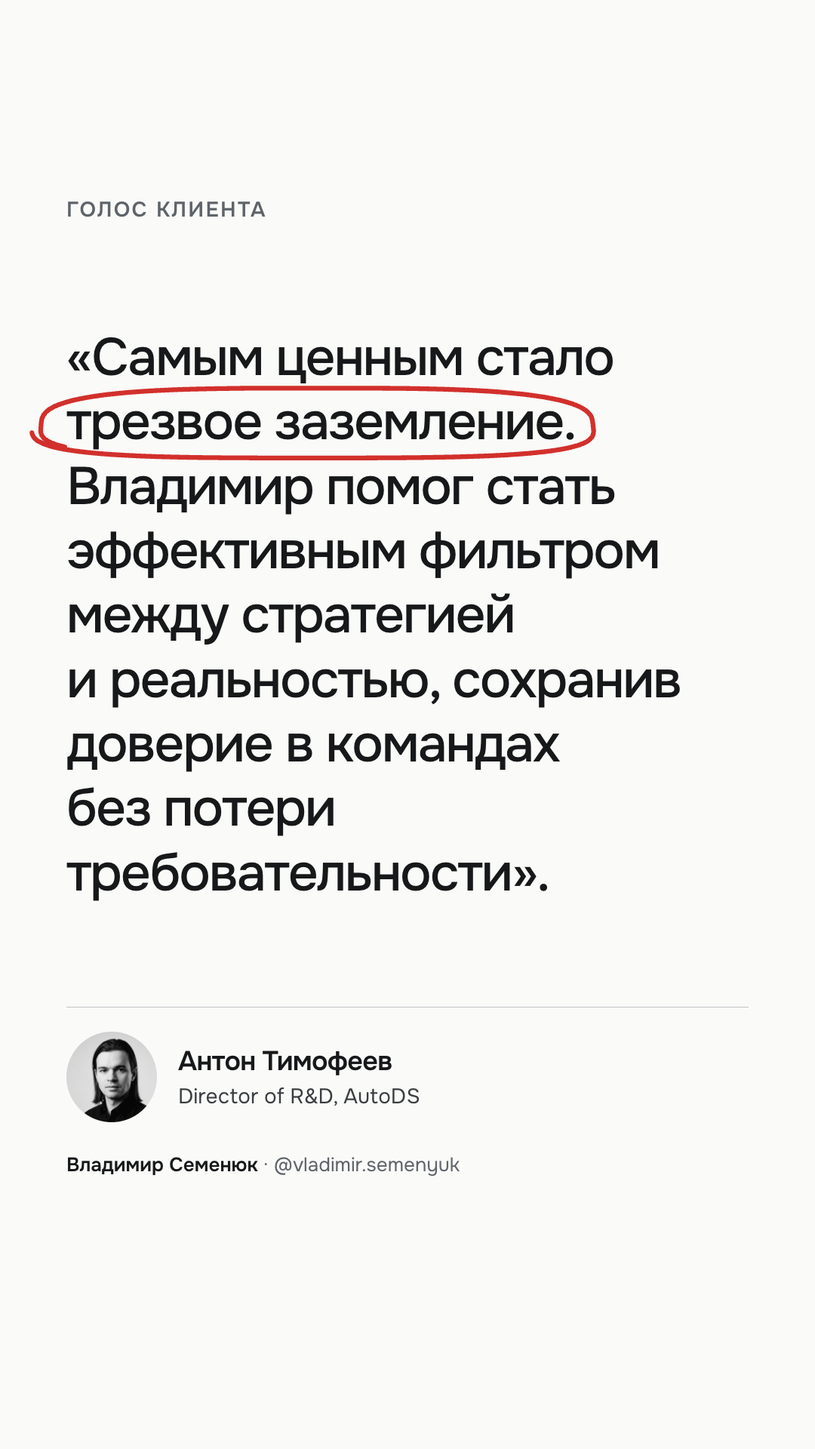
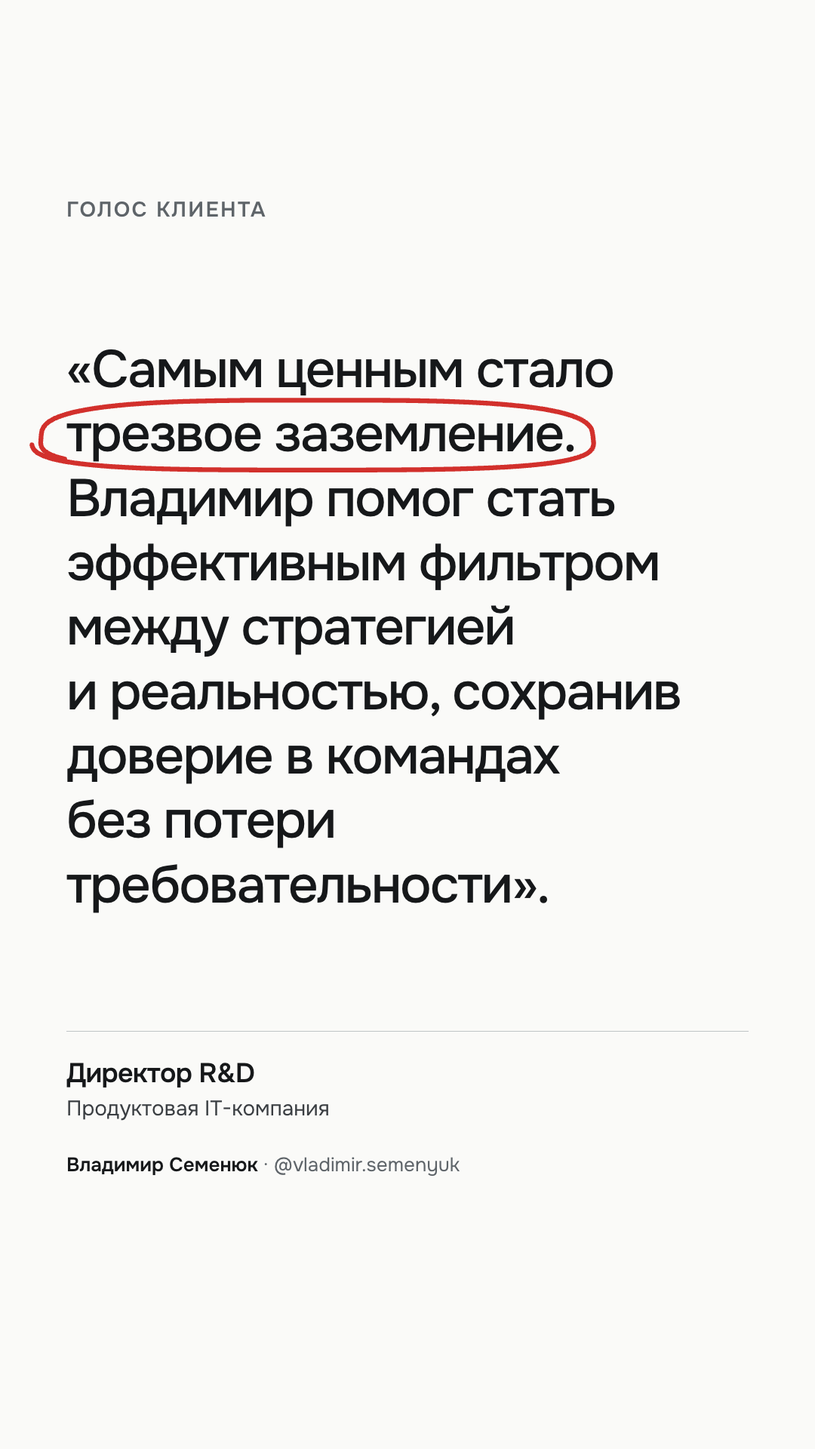
Instagram: портрет вместо тезиса, клиенты обезличены, Актуальное на понедельник
- Пост 4 — чёрно-белый портрет под «Кто я»; тезис «Право управлять не выдают» перенесён на неделю 1
- Отзывы в Instagram без имён и фото: должность и тип компании; фото в шаблоне отзыва необязательно
- p2-07 и Reels 2: «Что общего» вместо «Под всеми пятью одно»
- Профиль и посты опубликованы досрочно 15 ноября, Актуальное перенесено на понедельник

Changed region(s): [[0.0306, 0.2188, 0.8556, 0.625], [0.0611, 0.6875, 0.5194, 0.7812]]

diff --git a/Posts/instagram/2026-11-16-launch/slides.py b/Posts/instagram/2026-11-16-launch/slides.py
@@ -25,14 +25,16 @@ POSITIONS = [
          step="[[b:Возьмите один риск, который видите, и примите по нему [[o:решение]] до пятницы.]]"),
 ]
 
+# В Instagram клиенты обезличены: роль и тип компании, без имени и фото (решение 2026-11-15).
+# На сайте отзывы остаются с именами.
 REVIEWS = [
-    dict(who="Ольга Лончакова", role="Исполнительный директор, Sber", photo="olga.jpg", size=60,
+    dict(who="Исполнительный директор", role="Крупный банк", size=60,
          quote="«Полгода сомнений и внутренних разговоров были чётко структурированы и [[o:разложены по полочкам]]. После сессии у меня появился план горизонтом в год с конкретными шагами»."),
-    dict(who="Антон Тимофеев", role="Director of R&D, AutoDS", photo="anton.jpg",
+    dict(who="Директор R&D", role="Продуктовая IT-компания",
          quote="«Самым ценным стало [[o:трезвое заземление]]. Владимир помог стать эффективным фильтром между стратегией и реальностью, сохранив доверие в командах без потери требовательности»."),
-    dict(who="Виталий Иванов", role="CIO, UKids Academy", photo="vitaly.jpg",
+    dict(who="CIO", role="Образовательная компания",
          quote="«Владимир идёт в глубину и разбирает детали, не останавливаясь на общих вопросах. Консультация дала [[o:трезвую обратную связь]] по моим концепциям»."),
-    dict(who="Николай Смирницкий", role="Founder & CEO, MPFact.ru", photo="nikolay.jpg",
+    dict(who="Основатель и CEO", role="Технологический стартап",
          quote="«Владимир кратко и понятно объяснил, как работать с программистами. После этого изменился наш CTO: он стал [[o:думать как предприниматель]]»."),
 ]
 
@@ -87,7 +89,7 @@ for i, p in enumerate(POSITIONS):
     add(dict(name=f"p2-0{i + 2}", kind="position", label=f"Позиция 0{i + 1}", counter=f"{i + 2} / 7",
              foot=f"Дальше — {nxt[i]}" if nxt[i] else "Дальше — главное", **p))
 add(dict(name="p2-07", handle=True, kind="text", label="Право управлять", counter="7 / 7", size=110,
-         title="Под всеми пятью — одно",
+         title="Что общего",
          body=["Нет ощущения [[u:права управлять]] результатом, за который отвечаете.",
                "Должность даёт ответственность. Право управлять руководитель берёт сам."],
          pill="Узнали себя? «Разбор» в директ"))

diff --git a/Posts/instagram/render/render.py b/Posts/instagram/render/render.py
@@ -179,7 +179,7 @@ def t_review(s, story=False):
     return (f'<div class="{cls}" style="width:{w}px;height:{h}px">{head}'
             f'<blockquote style="margin:0;font-size:{s.get("size", 64)}px;font-weight:500;line-height:1.22;letter-spacing:-.03em">{md(s["quote"], 7)}</blockquote>'
             f'<div style="display:flex;flex-direction:column;gap:40px"><div style="display:flex;align-items:center;gap:28px;border-top:1px solid #BFC4C6;padding-top:32px">'
-            f'<img class="ava" src="{img("reviews/" + s["photo"])}" style="width:120px;height:120px">'
+            + (f'<img class="ava" src="{img("reviews/" + s["photo"])}" style="width:120px;height:120px">' if s.get("photo") else '') +
             f'<div style="display:flex;flex-direction:column;gap:6px"><span style="font-size:36px;font-weight:600;letter-spacing:-.02em">{md(s["who"])}</span>'
             f'<span style="font-size:28px;color:#3A3E42">{md(s["role"])}</span></div></div>{foot}</div></div>')
 

diff --git a/Posts/instagram/2026-11-16-launch/posts.md b/Posts/instagram/2026-11-16-launch/posts.md
@@ -11,7 +11,7 @@ language: ru
 - [[Posts/instagram/2026-11-16-launch/_index|Неделя запуска — порядок публикации]]
 - [[Personal/marketing/instagram-plan|План Instagram на 90 дней]]
 
-Шесть постов сетки. Картинки — в `img/`, формат 4:5. Подписи готовы к вставке, хэштегов нет.
+Шесть постов сетки. Картинки — в `img/`, формат 4:5. Тезис «Право управлять не выдают» перенесён на неделю 1 — в конце файла. Подписи готовы к вставке, хэштегов нет.
 
 ---
 
@@ -26,17 +26,17 @@ language: ru
 ```
 В 2017 году меня разнесли на собеседовании на CTO в биг-техе.
 
-Тот разговор заставил пересобрать роль. Я строил свою незаменимость. А нужно было строить систему, которая работает без меня.
+Тот разговор заставил меня пересмотроть свою роль, как руководителя. Раньше я строил свою незаменимость. А нужно было строить систему, которая работает без меня.
 
-Дальше были IPONWEB, mos.ru — пришёл руководителем разработки, вырос до CIO, организация выросла с 80 до 500 человек — и CTO Нетологии.
+Дальше были IPONWEB, mos.ru: пришёл руководителем разработки, вырос до CIO, организация выросла с 80 до 500 человек, и после был CTO Нетологии.
 
 Потом я ушёл в свои бизнесы: AI-стартап и теннисный клуб в Белграде. Закрыл оба. В новой отрасли и новой стране прежний способ управлять перестаёт работать быстрее всего.
 
-Из всего этого я вынес одно. Руководитель застревает не из-за нехватки знаний. Он управляет из позиции прошлого уровня, а ситуация уже другая.
+Из всего этого я вынес одно. Руководитель застревает не из-за нехватки знаний. Дело в том, что он управляет из позиции прошлого уровня, а ситуация уже другая.
 
-Теперь я работаю с руководителями, которые застряли так же. Метод называется «Право управлять». Берём задачу этой недели, я даю под неё инструмент и рассказываю, что сработало у меня. Потом называю то, что держит, и мы находим один неудобный шаг.
+Теперь я работаю с руководителями, которые застряли так же. Метод называется «Право управлять». Берём задачу этой недели, я даю под неё инструмент и рассказываю, что сработало у меня. Потом называю то, что удерживает, и мы находим один неудобный, но необходимый шаг.
 
-Если узнали себя — напишите «разбор» в директ.
+Если узнали себя, напишите «разбор» в директ.
 ```
 
 **Сильнее с одной деталью.** Одна фраза о том, что именно произошло на собеседовании 2017 года, сделает историю живой. Без неё текст честный, но общий. Вписать после первого абзаца.
@@ -52,9 +52,9 @@ language: ru
 **Подпись:**
 
 ```
-Отвечаете за результат, но не чувствуете права им управлять?
+Отвечаете за результат, но не чувствуете, что управляете им?
 
-Почти все руководители, с которыми я работаю, застревают в одной из пяти позиций. Это не характер и не типаж. Это способ управлять, который работал на прошлом уровне и перестал работать на этом.
+Почти все руководители, с которыми я работаю, застревают в одной из пяти позиций. Это не характер и не типаж. Это способ управлять, который работал на прошлом уровне, но перестал работать на этом.
 
 Герой — решает сам, потому что так быстрее.
 Проситель — просит там, где нужно задать рамку.
@@ -62,9 +62,9 @@ language: ru
 Хороший парень — сглаживает, пока команда садится на шею.
 Наблюдатель — видит риски точнее всех и ничего с ними не делает.
 
-В карусели — как проявляется каждая позиция, во что она обходится и один шаг на эту неделю.
+Читайте в карусели как проявляется каждая позиция, во что она обходится и что можно сделать в ближайшую неделю, чтобы выйти из неё.
 
-Под всеми пятью одно: нет ощущения права управлять результатом, за который отвечаете. Должность даёт ответственность. Право управлять руководитель берёт сам.
+Все пять позиций объединяет одно: отсутствие ощущения права управлять результатом, за который отвечаете. Должность даёт ответственность. Но право управлять руководитель берёт сам.
 
 Сохраните и вернитесь в пятницу: проверьте, сделали ли шаг.
 Хотите разобрать свою ситуацию — напишите «разбор» в директ.
@@ -85,46 +85,47 @@ language: ru
 
 «Трезвый взгляд» — разбор вашей управленческой ситуации за одну встречу. Не учебный кейс, а то, что происходит у вас на этой неделе.
 
-До встречи — три вопроса письменно: чем руководите, что перестало работать и сколько это длится.
-Встреча — 90 минут онлайн.
-После — одна страница: из какой позиции вы управляете, три точки роста и одно решение на эту неделю.
+До встречи ответьте на три вопроса письменно: чем руководите, что перестало работать и сколько это длится.
+Встреча длится 90 минут онлайн.
+В рещультате вы получите ответы на вопросы: из какой позиции вы управляете, три точки роста и одно решение на эту неделю.
 
-Стоимость — $250.
+Стоимость: $250.
 
-Перед разбором — 15 минут знакомства. Проверяем, подходит ли задача. Это не консультация: если я не смогу помочь, так и скажу.
+Разбор предворяют 15 минут знакомства. Проверяем, подходит ли задача. Это не консультация: если я не смогу помочь, так и скажу.
 
-Не подойдёт, если нужна поддержка без разбора решений, психотерапия или курс с сертификатом.
+Кому не подойдёт: если нужна поддержка без разбора решений, психотерапия или курс с сертификатом.
 
-Если после разбора захотите работать дальше — есть программа «Право управлять», от трёх месяцев. Если нет — у вас останется страница с решением.
+Если после разбора захотите работать дальше, есть программа «Право управлять» (от трёх месяцев работы). Если нет — у вас останется страница с решением.
 
 Напишите «разбор» в директ.
 ```
 
 ---
 
-## Пост 4. Тезис: право управлять не выдают
+## Пост 4. Портрет
 
-Одна картинка: `p4`.
+Одна картинка: `portrait.jpg` — чёрно-белый студийный портрет с сайта, 4:5, без текста. Единственная фотография в сетке: встаёт под «Кто я».
 
-![[img/p4.png|300]]
+![[img/portrait.jpg|300]]
 
 **Подпись:**
 
 ```
-Право управлять не выдают вместе с должностью.
+Владимир Семенюк. Работаю с руководителями, которые отвечают за результат, но не чувствуют права им управлять.
 
-Вас назначили. Дали команду, бюджет, цели. А дальше выясняется, что смежники всё равно не слушают, решения всё равно идут через вас, а руководство всё равно решает за вас.
+Был CTO Нетологии и CIO mos.ru. Управлял командами более 500 человек. Знаю эту ситуацию изнутри.
 
-Должность даёт ответственность. Право управлять руководитель берёт сам: задаёт рамку, отдаёт решения, называет последствия. Пока он этого не делает, остаётся три варианта — просить, тянуть на себе или подстраиваться.
-
-Шаг на эту неделю: найдите одно решение в своей зоне, которое вы ждёте, чтобы кто-то одобрил. Примите его сами и сообщите о нём. Не спрашивайте разрешения.
+Как я работаю и почему — в закреплённом посте «Кто я».
+Чтобы разобрать ваши ситуацию напишите «разбор» в директ.
 ```
+
+Решение 2026-11-15: портрет заменил тезис «Право управлять не выдают» — в сетке до анонса нужно лицо. Тезис перенесён на неделю 1, текст — в конце файла.
 
 ---
 
-## Пост 5. Голос клиента: Ольга
+## Пост 5. Голос клиента: исполнительный директор банка
 
-Одна картинка: `p5`. Отзыв, имя, должность и фото — с согласия автора, как на сайте.
+Одна картинка: `p5`. Отзыв — с согласия автора, текст как на сайте. В Instagram без имени и фото: должность и тип компании (решение 2026-11-15).
 
 ![[img/p5.png|300]]
 
@@ -133,13 +134,11 @@ language: ru
 ```
 «Полгода сомнений и внутренних разговоров были чётко структурированы и разложены по полочкам».
 
-Полгода сомнений — частая точка, с которой приходят ко мне. Внутренний разговор идёт по кругу: остаться или идти дальше, чего не хватает, у кого спросить. Сам по себе он не заканчивается.
+Это частая точка, с которой приходят ко мне. Внутренний разговор идёт по кругу: остаться или идти дальше, чего не хватает, у кого спросить. Сам по себе он не заканчивается.
 
-Его нужно перевести в факты: что у вас уже есть, чего не хватает для следующей роли и какое решение вы откладываете. Тогда вместо разговора по кругу появляется план.
+Первое что делаем — переводим домыслы в факты: что у вас уже есть, чего не хватает для следующей роли и какое решение вы откладываете. Тогда вместо разговора по кругу появляется план.
 
-Ольга Лончакова — исполнительный директор в Сбере. Отзыв опубликован с её согласия.
-
-Если вы полгода думаете о следующем шаге и он не становится яснее — напишите «разбор» в директ.
+Если вы полгода думаете о следующем шаге и он не становится яснее, напишите «разбор» в директ.
 ```
 
 ---
@@ -165,3 +164,25 @@ language: ru
 
 Если у вас всё идёт через вас — напишите «разбор» в директ.
 ```
+
+---
+
+## Перенесено на неделю 1: тезис «Право управлять не выдают»
+
+Одна картинка: `p4`.
+
+![[img/p4.png|300]]
+
+**Подпись:**
+
+```
+Право управлять не выдают вместе с должностью.
+
+Вас назначили. Дали команду, бюджет, цели. А дальше выясняется, что смежники всё равно не слушают, решения всё равно идут через вас, а руководство всё равно решает за вас.
+
+Должность даёт ответственность. Право управлять руководитель берёт сам: задаёт рамку, отдаёт решения, называет последствия. Пока он этого не делает, остаётся три варианта — просить, тянуть на себе или подстраиваться.
+
+Шаг на эту неделю: найдите одно решение в своей зоне, которое вы ждёте, чтобы кто-то одобрил. Примите его сами и сообщите о нём. Не спрашивайте разрешения.
+```
+
+Картинка готова — `p4.png`. Дата публикации — в [[Personal/marketing/instagram-plan|плане]], неделя 1.

diff --git a/Posts/instagram/2026-11-16-launch/_index.md b/Posts/instagram/2026-11-16-launch/_index.md
@@ -28,7 +28,7 @@ language: ru
 | `posts.md` | Подписи шести постов сетки |
 | `reels.md` | Сценарии трёх Reels, правила съёмки и монтажа |
 | `highlights.md` | Пять кружков Актуального: что в каком порядке |
-| `img/` | 50 картинок: 21 слайд постов, 3 обложки Reels, 5 обложек и 21 сторис Актуального. `_contact.png` — сводный лист |
+| `img/` | 51 картинка: 20 слайдов постов и `portrait.jpg`, 3 обложки Reels, 5 обложек и 21 сторис Актуального. `p4.png` — тезис, перенесён на неделю 1. `_contact.png` — сводный лист |
 | `slides.py` | Тексты всех картинок. Правка текста → перерисовка одной командой |
 
 Перерисовать картинки из корня KnowledgeOS:
@@ -43,10 +43,12 @@ python3 Posts/instagram/render/render.py Posts/instagram/2026-11-16-launch/slide
 
 ### Перед началом
 
-- [ ] Перекинуть папку `img/` на телефон через AirDrop: сторис и Актуальное делаются только с телефона.
-- [ ] Открыть на телефоне `posts.md` и `reels.md` — в Obsidian или скопировать в заметки.
+- [x] Перекинуть папку `img/` на телефон через AirDrop: сторис и Актуальное делаются только с телефона.
+- [x] Открыть на телефоне `posts.md` и `reels.md` — в Obsidian или скопировать в заметки.
 
-### Понедельник, 16 ноября — профиль и посты
+### Воскресенье, 15 ноября — профиль и посты
+
+Сделано досрочно: по плану было на понедельник.
 
 **Профиль.** Instagram → профиль → «Редактировать профиль».
 - [x] Фото: `Personal/marketing/website/site/assets/img/vladimir-semenyuk.jpg`.
@@ -68,18 +70,18 @@ python3 Posts/instagram/render/render.py Posts/instagram/2026-11-16-launch/slide
 - [x] Ярлык: `разбор`. Текст — из раздела «Директ» в [[Personal/marketing/instagram-profile|профиле]].
 
 **Посты.** «+» → «Публикация». Для карусели — «Выбрать несколько» и отмечать файлы по номерам. Формат — 4:5. Подпись — из `posts.md`. Публиковать строго в этом порядке:
-- [ ] 1-й: `p6.png` → подпись «Пост 6. Кейс».
-- [ ] 2-й: `p5.png` → подпись «Пост 5. Голос клиента».
-- [ ] 3-й: `p4.png` → подпись «Пост 4. Тезис».
-- [ ] 4-й: `p3-01` … `p3-05` → подпись «Пост 3. Разбор».
-- [ ] 5-й: `p2-01` … `p2-07` → подпись «Пост 2. Позиции».
-- [ ] 6-й: `p1-01` … `p1-06` → подпись «Пост 1. Кто я».
+- [x] 1-й: `p6.png` → подпись «Пост 6. Кейс».
+- [x] 2-й: `p5.png` → подпись «Пост 5. Голос клиента».
+- [x] 3-й: `portrait.jpg` → подпись «Пост 4. Портрет».
+- [x] 4-й: `p3-01` … `p3-05` → подпись «Пост 3. Разбор».
+- [x] 5-й: `p2-01` … `p2-07` → подпись «Пост 2. Позиции».
+- [x] 6-й: `p1-01` … `p1-06` → подпись «Пост 1. Кто я».
 
 **Закрепить.** На посте «⋯» → «Закрепить в профиле».
-- [ ] Закрепить по очереди: пост «Разбор», затем «Позиции», затем «Кто я».
-- [ ] Проверить: в профиле первыми слева направо стоят «Кто я», «Позиции», «Разбор».
+- [x] Закрепить по очереди: пост «Разбор», затем «Позиции», затем «Кто я».
+- [x] Проверить: в профиле первыми слева направо стоят «Кто я», «Позиции», «Разбор».
 
-### Вторник, 17 ноября — Актуальное и первая съёмка
+### Понедельник, 16 ноября — Актуальное
 
 **Актуальное.** Для каждого кружка: выложить его сторис по порядку, затем в профиле «+ Новое» под шапкой → отметить эти сторис → название → «Изменить обложку» → картинка `-0` из галереи.
 - [ ] «Кто я»: сторис `h-kto-ya-1` … `4`, обложка `h-kto-ya-0`.
@@ -87,6 +89,8 @@ python3 Posts/instagram/render/render.py Posts/instagram/2026-11-16-launch/slide
 - [ ] «Разбор»: сторис `h-razbor-1` … `4`, обложка `h-razbor-0`.
 - [ ] «Отзывы»: сторис `h-otzyvy-1` … `4`, обложка `h-otzyvy-0`.
 - [ ] «Кейсы»: сторис `h-keysy-1` … `3`, обложка `h-keysy-0`.
+
+### Вторник, 17 ноября — первая съёмка
 
 **Учёба, 45 минут: место и техника.** Правила — в `reels.md`, раздел «Как снимать».
 - [ ] Выбрать одно место для всех будущих съёмок: стена или доска, свет из окна сбоку-спереди.
@@ -131,7 +135,7 @@ python3 Posts/instagram/render/render.py Posts/instagram/2026-11-16-launch/slide
 ## Проверка перед анонсом
 
 - [ ] Посетитель за 10 секунд видит: про чью ситуацию, кто автор, что сделать.
-- [ ] Три закреплённых поста стоят в правильном порядке.
+- [ ] Три закреплённых поста стоят в правильном порядке, портрет — первым во втором ряду, под «Кто я».
 - [ ] Пять кружков Актуального с обложками.
 - [ ] Быстрый ответ на «разбор» срабатывает — проверить с другого аккаунта.
 - [ ] В посте 1 дописана одна деталь о собеседовании 2017 года — по желанию.
@@ -139,6 +143,7 @@ python3 Posts/instagram/render/render.py Posts/instagram/2026-11-16-launch/slide
 ## Что осталось на неделю 1
 
 - Публикация первых пяти Reels: три готовых ролика этой недели и два новых про героя.
+- Пост-тезис «Право управлять не выдают»: картинка `p4.png` и подпись готовы, лежат в конце `posts.md`. Портрет занял его место в сетке.
 
 - Самопроверка «Из какой позиции вы управляете» на одну страницу — вход через слово «позиции».
 - Сообщения личной базе и анонс в Telegram «Управление и Счастье».

diff --git a/Personal/marketing/instagram-profile.md b/Personal/marketing/instagram-profile.md
@@ -60,7 +60,7 @@ visibility: private
 | Кто я | Путь от верстальщика до CTO и CIO, рост с 80 до 500 человек, два закрытых бизнеса, фото с выступлений | Доверие: был на вашем месте |
 | Позиции | Пять позиций: герой, проситель, лояльный солдат, хороший парень, наблюдатель. По одной истории на позицию и цена | Узнавание себя |
 | Разбор | Что такое «Трезвый взгляд»: три вопроса до встречи, 90 минут, одна страница результата, $250, как записаться | Продажа входа |
-| Отзывы | Четыре отзыва с сайта: Ольга, Антон, Виталий, Николай — с согласия, как на сайте | Подтверждение |
+| Отзывы | Четыре отзыва с сайта, обезличены: должность и тип компании, без имени и фото | Подтверждение |
 | Кейсы | Три обезличенных кейса «было — стало»: реорганизация и Director, повышение до исполнительного директора, техлиды на 3–4 команды | Показать сдвиг |
 
 ## Три закреплённых поста
@@ -86,7 +86,8 @@ visibility: private
 - Обвод или подчёркивание выбирается по смыслу, а не по размеру: обвод выделяет понятие — одно-два слова («рамку», «одно решение», «3–4 командами»); подчёркивание — мысль из трёх и больше слов («позиции прошлого уровня», «трезвую обратную связь»). Вокруг длинной фразы овал становится плоским и задевает соседние строки, а подчёркивание тонкого мелкого текста плохо видно (решение 2026-11-15).
 - Обвод — рукописный овал с запасом вокруг слова: обведённый текст читается целиком, линия не касается букв. Три формы по длине: короткое слово — эллипс с лёгким наклоном, среднее — овал полнее эллипса, длинная фраза — мягкий овал без наклона, чтобы не расползаться в стороны. Решение 2026-11-14.
 - Линейки вместо карточек: толстая чернильная сверху, тонкие серые между строками.
-- Фото только чёрно-белое: портрет и лица авторов отзывов.
+- Фото только чёрно-белое: портрет автора.
+- Клиенты в Instagram обезличены: должность и тип компании, без имени, названия компании и фото — в отзывах, кейсах и подписях. На сайте отзывы остаются с именами. Решение 2026-11-15.
 - Без градиентов, пастели, синего, эмодзи и стоковых фото.
 
 **Каркас поста 4:5 (1080×1350).** Поля 96 px. Сверху — линейка 3 px и метка капсом (тема) с номером слайда справа. В центре — заголовок 110–140 px, 600, разрядка −0,045em. Снизу — «Владимир Семенюк · @vladimir.semenyuk» на всех слайдах и сторис, кроме обложек Актуального (решение 2026-11-15). «Трезвый взгляд» на картинках не ставится — это название платного разбора; `semenyuk.pro` не ставится — с картинки по ссылке не перейти, сайт — в шапке профиля.

diff --git a/Personal/marketing/instagram-plan.md b/Personal/marketing/instagram-plan.md
@@ -102,7 +102,7 @@ flowchart LR
 Темы взяты из фраз и слоганов `BRAND.md`. Сценарии Reels и тексты каруселей готовятся в `/Posts`.
 
 **Неделя 0, 16–22 ноября — запуск**
-- Сетка до анонса, 6 постов: три закреплённых (кто я, пять позиций, разбор «Трезвый взгляд»), тезис «Право управлять не выдают вместе с должностью», голос клиента — Ольга, кейс — реорганизация стояла 12 месяцев, затем должность Director.
+- Сетка до анонса, 6 постов: три закреплённых (кто я, пять позиций, разбор «Трезвый взгляд»), чёрно-белый портрет без текста, голос клиента — исполнительный директор банка, без имени, кейс — реорганизация стояла 12 месяцев, затем должность Director.
 - Reels не публикуются. Владимир учится снимать на трёх сценариях запуска — к пятнице они смонтированы и выходят на неделе 1. Программа учёбы по дням — в [[Posts/instagram/2026-11-16-launch/_index|плане недели]].
 
 **Неделя 1 — первые Reels и герой**
@@ -114,6 +114,7 @@ flowchart LR
   5. «Без вас всё встаёт, значит, вы не управляете».
 - В резерв: своя история о росте с 80 до 500 человек и моменте, когда перестал успевать сам; «Героя не повышают: его некем заменить». «Час в неделю — и фиг с ним» уже звучит в Reels 3.
 - Карусели: сколько часов в неделю стоит «сделаю сам»; уровни делегирования.
+- Пост: тезис «Право управлять не выдают вместе с должностью» — готов, перенесён с недели 0, где его место в сетке занял портрет (решение 2026-11-15).
 
 **Неделя 2 — проситель**
 - Reels:
@@ -140,7 +141,7 @@ flowchart LR
   3. «Люди сели на шею — и это не про них».
   4. Страх выглядеть манипулятором.
   5. Призыв прислать свою ситуацию для публичного разбора.
-- Карусели: обратная связь без растушёвки; голос клиента — Антон: доверие команды без потери требовательности.
+- Карусели: обратная связь без растушёвки; голос клиента — директор R&D, без имени: доверие команды без потери требовательности.
 
 Дальше — наблюдатель, свои провалы, публичные разборы и январская серия про решения, которые откладываются. План на недели 5–12 собирается после проверки 13 декабря по тому, какие ролики смотрят до конца, сохраняют и после каких пишут.
 

diff --git a/Posts/instagram/2026-11-16-launch/highlights.md b/Posts/instagram/2026-11-16-launch/highlights.md
@@ -20,11 +20,13 @@ language: ru
 | 1 | Кто я | `h-kto-ya-0` | `h-kto-ya-1…4` | Портрет и роль → путь от верстальщика до CTO → что не сработало → цифры и призыв |
 | 2 | Позиции | `h-pozicii-0` | `h-pozicii-1…6` | Вопрос → по одной сторис на позицию: как видно, цена, шаг. На последней — призыв |
 | 3 | Разбор | `h-razbor-0` | `h-razbor-1…4` | Что такое разбор → три вопроса → что получите → как записаться |
-| 4 | Отзывы | `h-otzyvy-0` | `h-otzyvy-1…4` | Ольга, Антон, Виталий, Николай — с согласия, как на сайте |
+| 4 | Отзывы | `h-otzyvy-0` | `h-otzyvy-1…4` | Четыре отзыва с сайта, обезличены: исполнительный директор банка, директор R&D, CIO, основатель стартапа |
 | 5 | Кейсы | `h-keysy-0` | `h-keysy-1…3` | Реформа R&D → банк ТОП‑3 → техлиды. Цифры — как на сайте. На последней — призыв |
 
 ![[img/h-kto-ya-1.png|200]] ![[img/h-pozicii-2.png|200]] ![[img/h-razbor-1.png|200]] ![[img/h-otzyvy-2.png|200]] ![[img/h-keysy-1.png|200]]
 
 **Ссылки и стикеры.** На последнюю сторис каждого кружка с кнопкой «Напишите «разбор» в директ» можно добавить стикер «Ссылка» на `https://semenyuk.pro` поверх нижнего поля. Стикер не обязателен: действие одно — директ.
+
+**Клиенты обезличены.** В Instagram — только должность и тип компании, без имени, названия компании и фото. На сайте отзывы остаются с именами (решение 2026-11-15).
 
 **Обновлять.** Новый отзыв или кейс — добавить сторис в кружок, сделав её по шаблону в `slides.py`.

diff --git a/Posts/instagram/2026-11-16-launch/reels.md b/Posts/instagram/2026-11-16-launch/reels.md
@@ -61,7 +61,7 @@ language: ru
 | 0–3 | Вы управляете не из своей должности. Вы управляете из позиции. |
 | 3–8 | Их пять. Узнайте свою. |
 | 8–22 | Герой — решает сам, потому что так быстрее. Проситель — просит там, где нужно задать рамку. Лояльный солдат — делает, как сказали. Хороший парень — лишь бы без конфликта. Наблюдатель — видит все риски и ничего с ними не делает. |
-| 22–30 | Под всеми пятью одно: нет ощущения права управлять. В профиле закреплена карусель — что сделать с каждой на этой неделе. |
+| 22–30 | Что общего у всех пяти: нет ощущения права управлять. В профиле закреплена карусель — что сделать с каждой на этой неделе. |
 
 На монтаже: на каждой позиции — её название крупно в субтитрах, по секунде-полторы.
 
